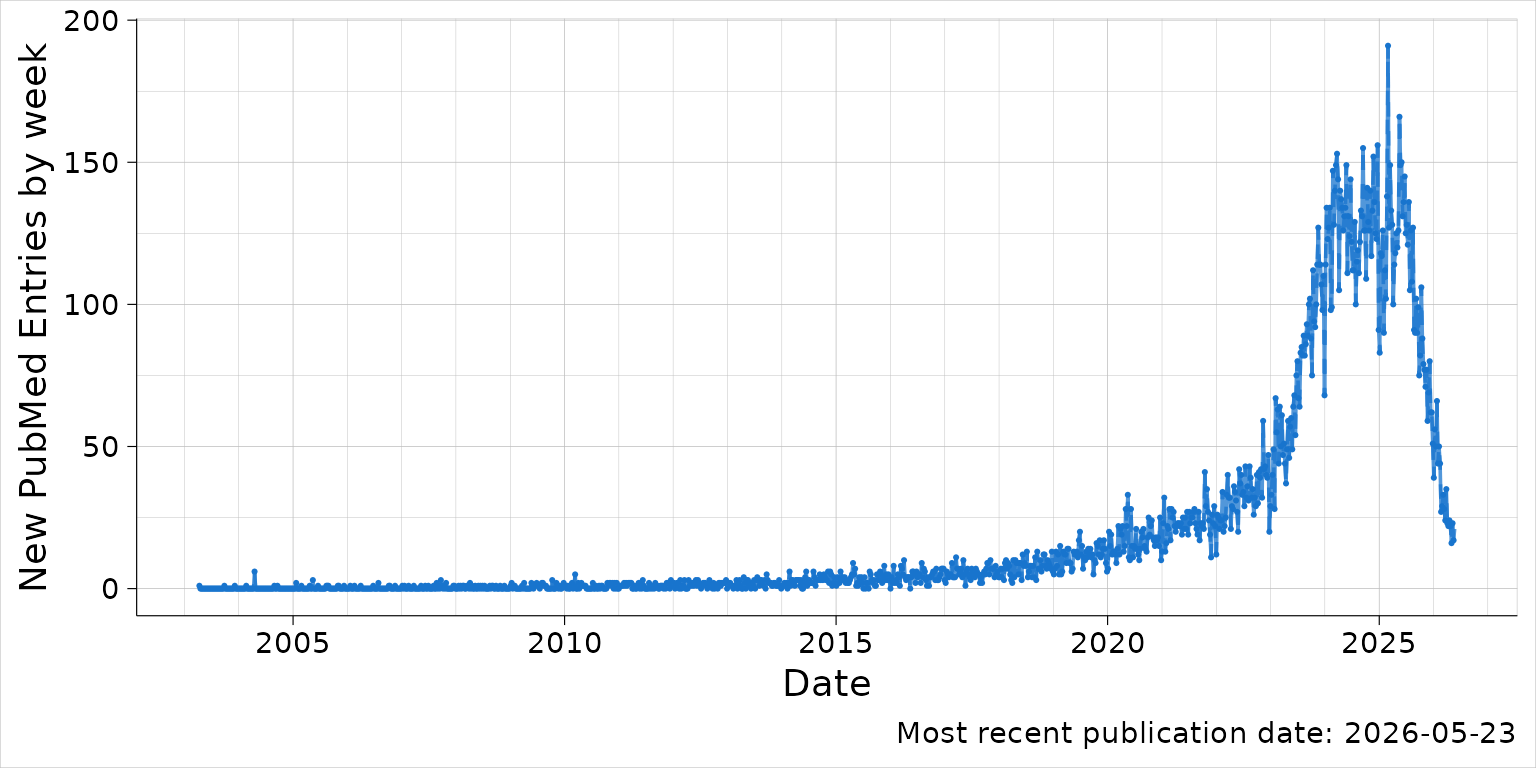
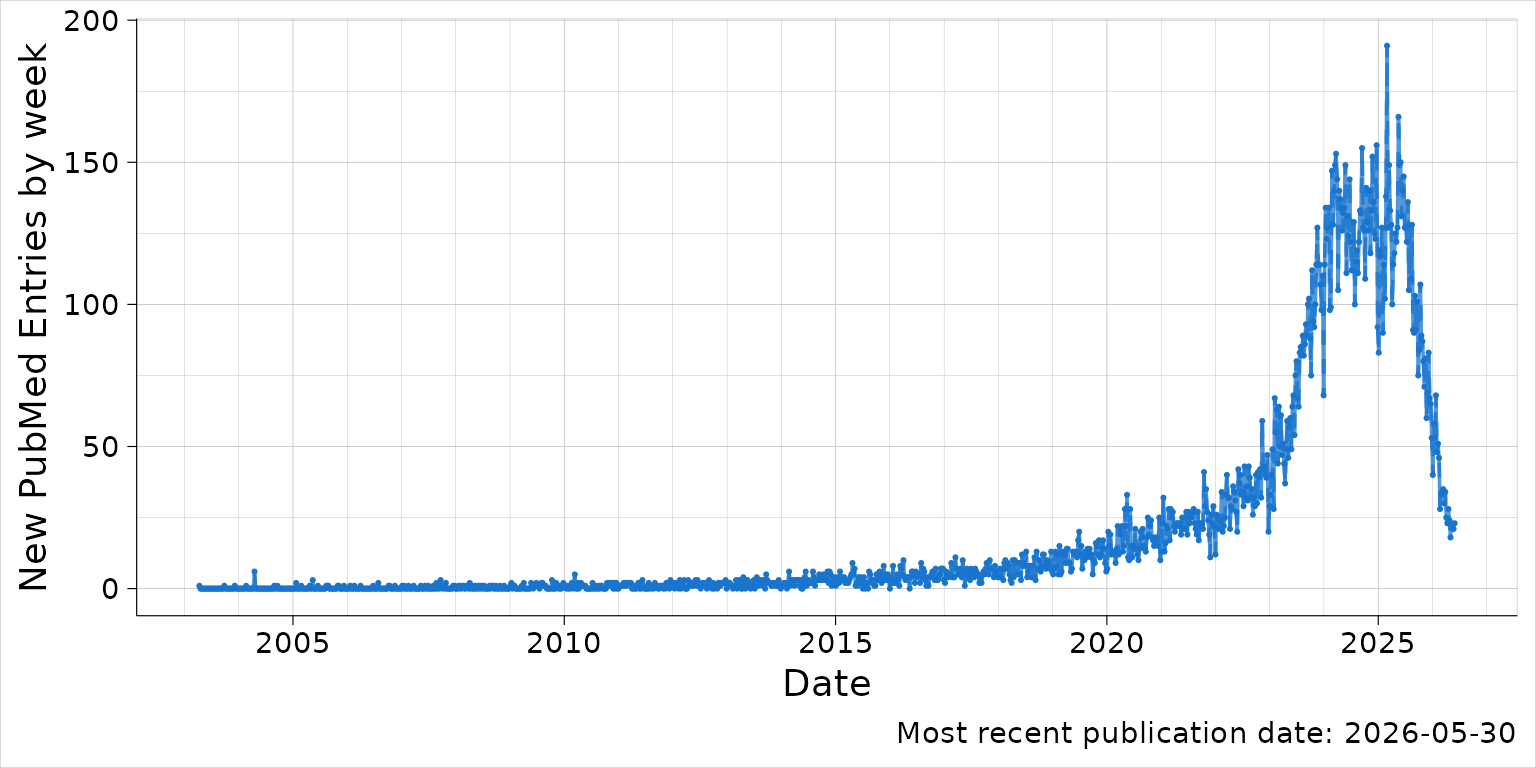
Deploying to gh-pages from @ explodecomputer/PubmedPlot@068eacdf5acdc66ea1c8a3d5640505ac4a8cb4ee 🚀

diff --git a/articles/mr.html b/articles/mr.html
@@ -217,13 +217,13 @@
 <span><span class="co">#&gt; Fetching records 7001 to 7133 </span></span>
 <span><span class="co">#&gt; Searching for year: 2026 </span></span>
 <span><span class="co">#&gt; Search term: "Mendelian randomisation" [tiab] OR "Mendelian randomization" [tiab] AND ("2026/01/01"[dp] : "2026/12/31"[dp]) </span></span>
-<span><span class="co">#&gt; Found 2617 articles matching the search term.</span></span>
+<span><span class="co">#&gt; Found 2749 articles matching the search term.</span></span>
 <span><span class="co">#&gt; Fetching records 1 to 500 </span></span>
 <span><span class="co">#&gt; Fetching records 501 to 1000 </span></span>
 <span><span class="co">#&gt; Fetching records 1001 to 1500 </span></span>
 <span><span class="co">#&gt; Fetching records 1501 to 2000 </span></span>
 <span><span class="co">#&gt; Fetching records 2001 to 2500 </span></span>
-<span><span class="co">#&gt; Fetching records 2501 to 2617</span></span>
+<span><span class="co">#&gt; Fetching records 2501 to 2749</span></span>
 <span><span class="co"># write_json(a, "pubmed_abstracts.json", pretty=TRUE)</span></span>
 <span><span class="va">b</span> <span class="op">&lt;-</span> <span class="fu"><a href="../reference/group_by_time_interval.html">group_by_time_interval</a></span><span class="op">(</span><span class="va">a</span><span class="op">)</span></span>
 <span><span class="va">p</span> <span class="op">&lt;-</span> <span class="fu"><a href="../reference/plot_time_interval.html">plot_time_interval</a></span><span class="op">(</span><span class="va">b</span><span class="op">)</span></span></code></pre></div>

diff --git a/articles/mr.md b/articles/mr.md
@@ -157,13 +157,13 @@ a <- PubmedPlot::search_term_by_year('"Mendelian randomisation" [tiab] OR "Mende
 #> Fetching records 7001 to 7133 
 #> Searching for year: 2026 
 #> Search term: "Mendelian randomisation" [tiab] OR "Mendelian randomization" [tiab] AND ("2026/01/01"[dp] : "2026/12/31"[dp]) 
-#> Found 2617 articles matching the search term.
+#> Found 2749 articles matching the search term.
 #> Fetching records 1 to 500 
 #> Fetching records 501 to 1000 
 #> Fetching records 1001 to 1500 
 #> Fetching records 1501 to 2000 
 #> Fetching records 2001 to 2500 
-#> Fetching records 2501 to 2617
+#> Fetching records 2501 to 2749
 # write_json(a, "pubmed_abstracts.json", pretty=TRUE)
 b <- group_by_time_interval(a)
 p <- plot_time_interval(b)
